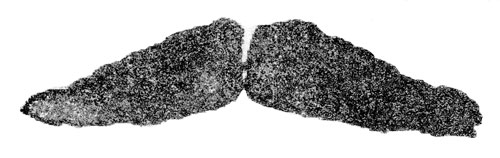
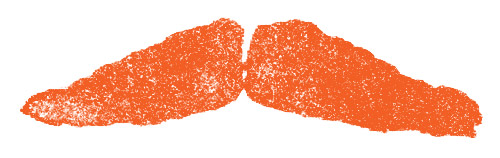
orangify

diff --git a/index.html b/index.html
@@ -10,15 +10,15 @@
 
 <body>
 
-  <a href="http://mobro.co/elidupuis"><img id="mo" src="img/mo.jpg" alt="movember time." width="500" height="158" /></a>
+  <a href="http://mobro.co/elidupuis" title="movember time."><img id="mo" src="img/mo.jpg" alt="movember time." width="500" height="158" /></a>
 
-<!-- ANALYTICS HERE -->
-<script src="http://www.google-analytics.com/urchin.js" type="text/javascript"></script>
-<script type="text/javascript">
-	_uacct = "UA-358299-1";
-	urchinTracker();
-</script>
-<!-- ANALYTICS HERE -->
+  <!-- ANALYTICS HERE -->
+  <script src="http://www.google-analytics.com/urchin.js" type="text/javascript"></script>
+  <script type="text/javascript">
+  	_uacct = "UA-358299-1";
+  	urchinTracker();
+  </script>
+  <!-- ANALYTICS HERE -->
 
 </body>
 </html>
